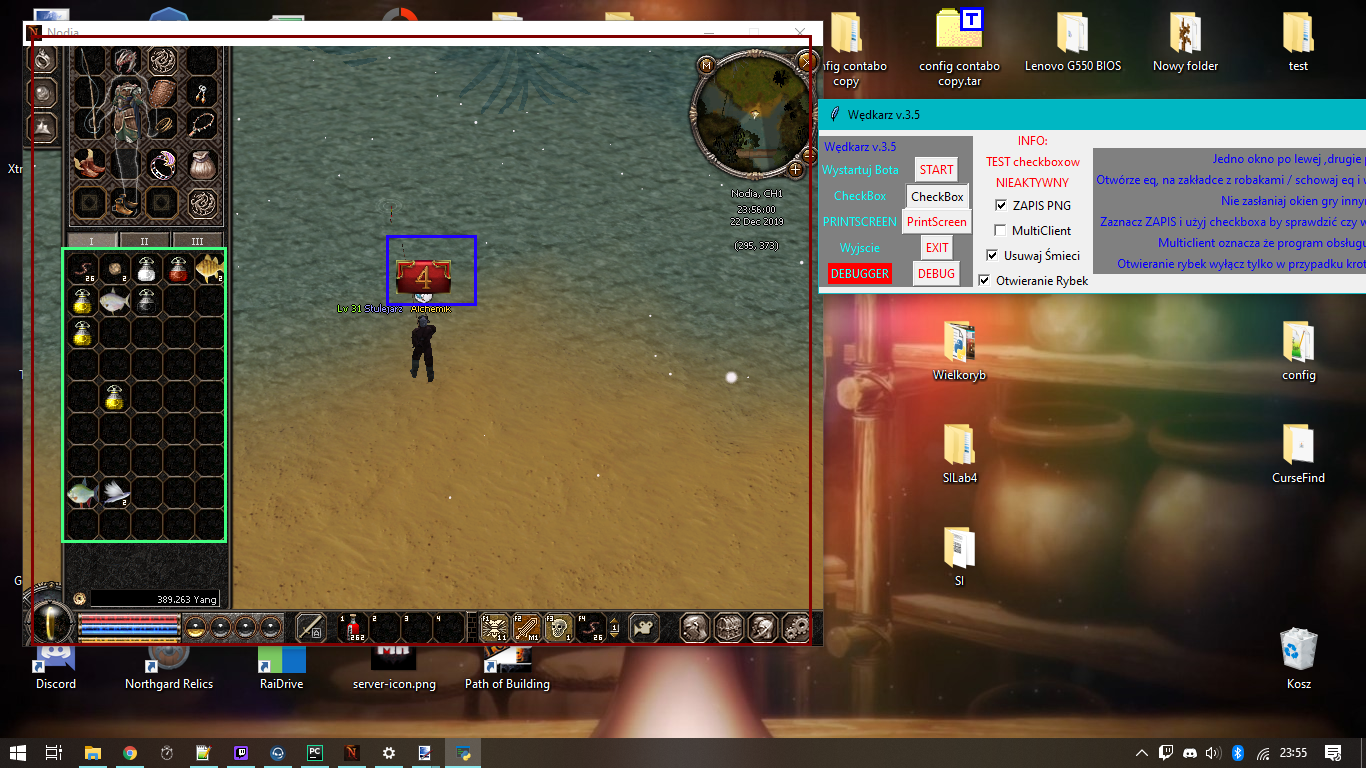
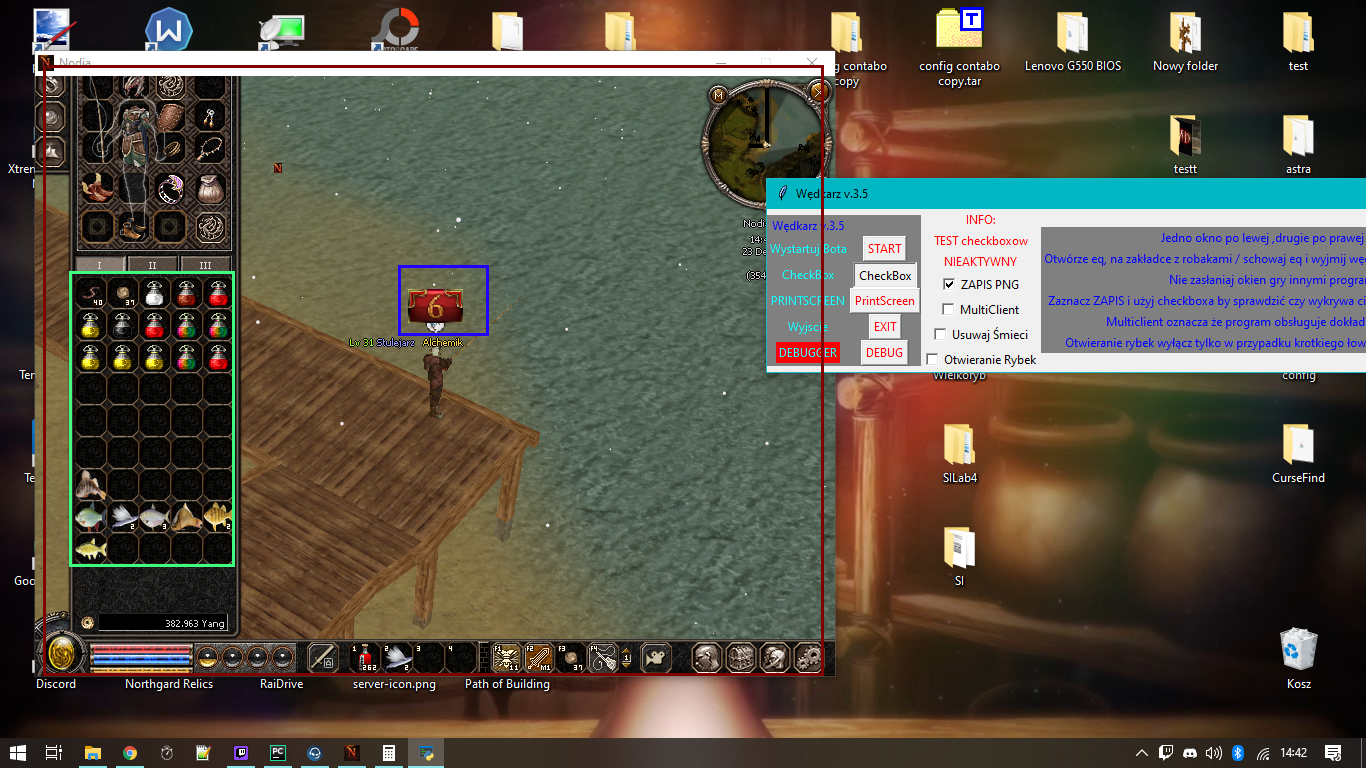
Przygotowanie do wdrożenia systemu tolerancji(funkcja test w debugerze) Usuniecie poewnej części zbędnego kodu i dodanei tablicy obrazów przechowjącej liczby. Wykadrowanie ekwipunku który szuka po obrazku wona(mała kulka na dole eq) troche testów.

diff --git a/wedkarz.py b/wedkarz.py
@@ -105,7 +105,6 @@ def szukajwoknie(oknostart, okno, szukany):
             koordy2 = a, b
             koordy1 = 0, 0
             if (img.getpixel(koordy2)) == (szukany.getpixel(koordy1)):
-
                 # pierwszy pixel sie zgadza
                 for j in range(0, box1[2]):
                     for i in range(0, box1[3]):
@@ -159,6 +158,44 @@ def szukajwoknie2(oknostart, okno, szukany):
     return 0
 
 
+def szukajztolerancja(oknostart, okno, szukany):
+    box1 = szukany.getbbox()
+    img = ImageGrab.grab(bbox=oknostart + okno)
+    szer = okno[0] - oknostart[0]
+    wys = okno[1] - oknostart[1]
+    sum = box1[2] * box1[3]
+    for a in range(0, szer):
+        for b in range(0, wys):
+            cordinate2 = a, b
+            cordinate1 = 0, 0
+            if (img.getpixel(cordinate2)) == (szukany.getpixel(cordinate1)):
+                print("pierwszy ok")
+                h = 1
+                a = 0
+                for j in range(0, box1[2]):
+                    if (a == 1):
+                        break
+                    for i in range(0, box1[3]):
+                        if (h == sum):
+                            return 1
+                        else:
+                            cordinate1 = j, i
+                            cordinate3 = j + cordinate2[0], i + cordinate2[1]
+                            if (szukany.getpixel(cordinate1) == pustybit):
+                                h = h + 1
+                                continue
+                            else:
+                                if img.getpixel(cordinate3) == szukany.getpixel(cordinate1):
+                                    h = h + 1
+                                    print(h,"/",sum)
+                                    if (h == sum):
+                                        return 1
+                                else:
+                                    h = 0
+                                    a = 1
+                                    break
+    return 0
+
 def main():
     print("wczytywanie menu")
     menu()
@@ -186,8 +223,8 @@ def test2():
     coord = 1,1
     pix1=img.getpixel(coord)
     pix2=szukany.getpixel(coord)
-    tolerancja = 1
-    if fabs(pix1[0] - pix2[0])<tolerancja and fabs(pix1[1] == pix2[1])<tolerancja and fabs(pix1[2] == pix2[2])<tolerancja:
+    tolerancja = 3
+    if fabs(pix1[0] - pix2[0])<=tolerancja and fabs(pix1[1] == pix2[1])<=tolerancja and fabs(pix1[2] == pix2[2])<=tolerancja:
         print("zgodne")
     else:
         print("niezgodne")
@@ -610,7 +647,7 @@ def start2():
 def szukajliczb(k, oknoMale1, oknoMale2):
     for i in range(0,6):
         temp = liczby[i]
-        szukane = szukajwoknie2(oknoMale1, oknoMale2, temp)
+        szukane = szukajztolerancja(oknoMale1, oknoMale2, temp)
         if (szukane == 1):
             print("Znaleziono ",i)
             return i
@@ -619,7 +656,8 @@ def szukajliczb(k, oknoMale1, oknoMale2):
     if MULTI == 1:
         if (k > 20):
             return 6
-    if (k > 35):
+    # ustalenie po ilu powtórzeniach restart
+    if (k > 90):
         return 6
 
     return 0
